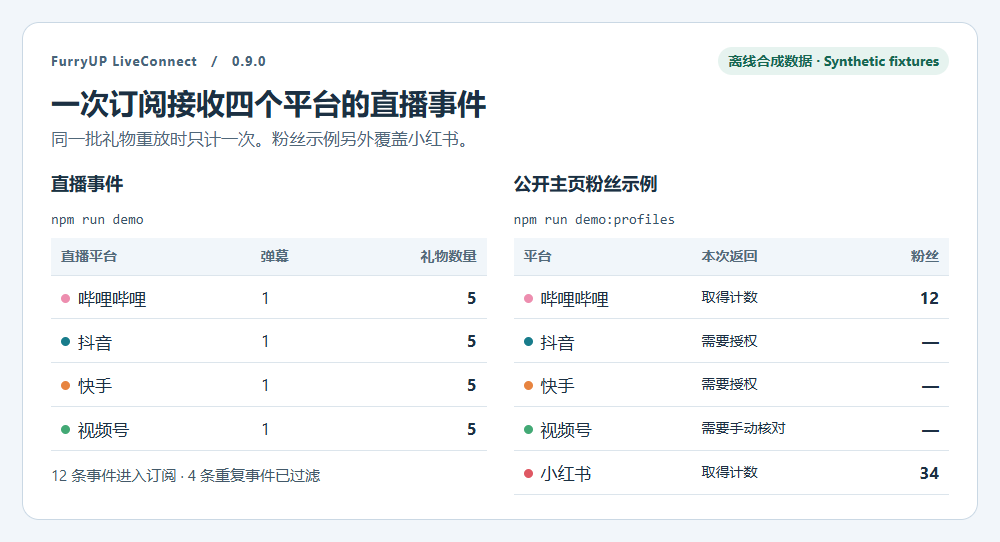
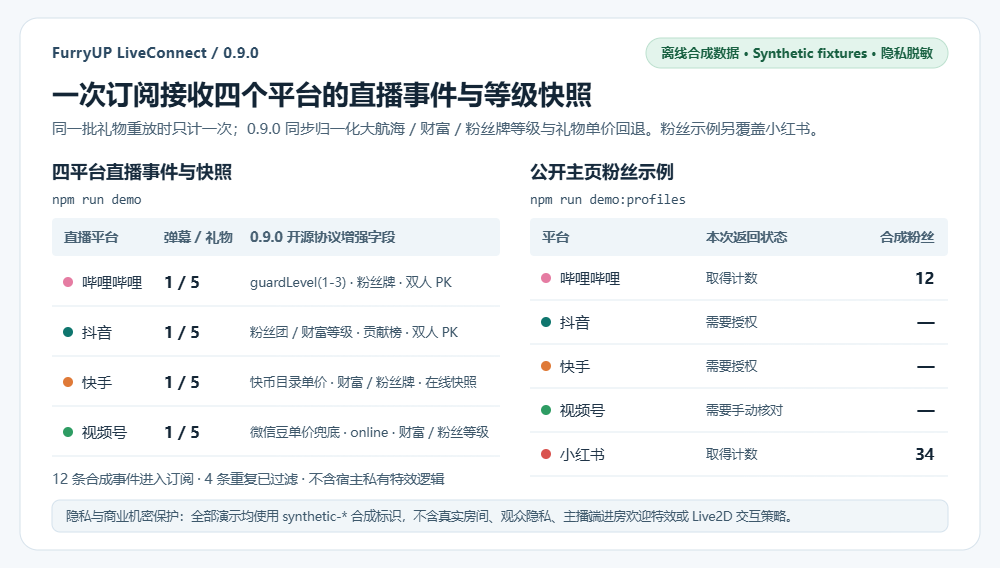
docs: update 0.9.0 architecture diagram and synthetic screenshots with privacy/commercial boundaries
- Refresh docs/images/architecture.svg with 0.9.0 capabilities and explicit privacy & commercial-secret boundaries
- Refresh docs/images/live-and-followers.png and docs/images/monthly-revenue.png using synthetic fixtures
- Update SHA-256 verification hashes in scripts/audit-source.cjs and sync README/API/EVENTS docs

diff --git a/README.md b/README.md
@@ -23,19 +23,19 @@
 
 ## 看一次采集结果
 
-下图将仓库离线示例的实际输出按平台排版。四个直播间共送入 12 条有效事件，另有 4 条重复事件被过滤。右栏展示公开主页示例在不同平台返回的状态。[直播示例](examples/offline-demo.cjs) · [主页示例](examples/profile-demo.cjs)
+下图将仓库离线示例的实际输出与 0.9.0 四平台协议增强字段按平台排版。四个直播间共送入 12 条有效合成事件，另有 4 条重复事件被过滤，并同步展示大航海（`guardLevel`）、财富/粉丝牌等级、礼物单价兜底与在线快照能力。右栏展示公开主页示例在不同平台返回的状态。全部演示均采用 `synthetic-*` 脱敏合成数据，不含任何真实房间或观众信息。[直播示例](examples/offline-demo.cjs) · [主页示例](examples/profile-demo.cjs)
 
-![直播事件和五平台主页离线示例，按平台列出礼物数量、重复事件和粉丝读取状态](docs/images/live-and-followers.png)
+![直播事件、0.9.0 协议增强字段与五平台主页离线示例（离线合成脱敏数据）](docs/images/live-and-followers.png)
 
-收益示例中，同一个 B站月报有完整月份，趋势接口只覆盖其中两天。查看趋势时可以直接看到缺了多少天。同一个抖音账号的人民币收益和直播音浪保留各自单位。[自然月收益示例](examples/revenue-demo.cjs)
+收益示例中，同一个 B站月报有完整月份，趋势接口只覆盖其中两天。查看趋势时可以直接看到缺了多少天。同一个抖音账号的人民币收益和直播音浪保留各自单位，仅演示开源账本归集结构，不含真实创作者流水或商业分成模型。[自然月收益示例](examples/revenue-demo.cjs)
 
-![合成月账本，展示同月不同来源、人民币与音浪单位，以及各来源覆盖天数](docs/images/monthly-revenue.png)
+![合成月账本，展示同月不同来源、人民币与音浪单位，以及各来源覆盖天数（脱敏演示）](docs/images/monthly-revenue.png)
 
-## 组件架构
+## 组件架构与隐私商业边界
 
-直播事件通过 `core` 订阅，粉丝快照通过 `profiles` 获取，收益通过 `revenue` 生成自然月账本。宿主可以只选用其中一路，按需接入自己的图表、账号和云存储。
+直播事件通过 `core` 订阅，粉丝快照通过 `profiles` 获取，收益通过 `revenue` 生成自然月账本。平台登录态与 Cookie 仅留存采集设备本机；专属进房欢迎特效、Live2D 动作规则、多源交叉核验与智能助播策略均由闭源宿主独立实现，不在本开源仓库公开。
 
-![LiveConnect 数据流：四平台直播进入事件订阅，五平台主页进入粉丝快照，四平台收益进入按自然月整理的账本](docs/images/architecture.svg)
+![LiveConnect 0.9.0 数据流与隐私商业隔离边界](docs/images/architecture.svg)
 
 [事件字段](docs/EVENTS.md) · [排错指南](docs/TROUBLESHOOTING.md) · [应用案例](docs/SHOWCASE.md) · [更新记录](CHANGELOG.md)
 
@@ -245,9 +245,7 @@ FurryUP Studio 将直播工作台、互动与 OBS 配合等工作流集中到桌
 
 **想自己开发：** 使用 LiveConnect 接入你的工具箱，欢迎反馈和贡献协议修复。**想直接开播使用：** [FurryUP Studio](https://github.com/frostynight-furry/furryup-studio-releases) 提供完整主播端产品，[FurryUP 桌宠](https://github.com/frostynight-furry/furryup-desktop-pet-releases) 提供桌面陪伴体验。开源底层能力与 FurryUP 产品持续共同迭代。
 
-下面展示 FurryUP Studio 官方下载仓库已公开的工作台界面，使用示例消息；它展示完整产品的应用方式，不是 LiveConnect 附带的界面。图片和品牌不纳入本仓库源码的 MIT 许可。
-
-[![FurryUP Studio 四平台工作台，使用示例消息](https://raw.githubusercontent.com/frostynight-furry/furryup-studio-releases/main/assets/screenshots/live-workbench.png)](https://github.com/frostynight-furry/furryup-studio-releases#界面预览)
+为保护用户隐私与产品商业机密，本仓库所有文档截图、测试 fixture 与架构图均采用离线合成数据（`synthetic-*`），不包含任何真实账号、观众记录或闭源宿主界面截图。完整主播端产品说明见 [FurryUP Studio 发行页](https://github.com/frostynight-furry/furryup-studio-releases)；产品品牌与闭源能力不纳入本仓库源码的 MIT 许可。
 
 做出了自己的工具？欢迎按[案例提交说明](docs/SHOWCASE.md)提供公开项目链接。我们会区分官方产品和独立社区项目，不将未接入的项目标记为用户案例。
 

diff --git a/docs/API.md b/docs/API.md
@@ -126,19 +126,19 @@ const recent = live.history({ eventTypes: ['comment'] });
 
 快手 Java 采集器在官方本场礼物目录可用时提供单件价格，币种为 `kuaibi`（快币）；该价格与 `gift_count` 分开，不乘以连送数量。价格字段缺失代表未知，不代表免费或零价格。目录在连接前预载并定期刷新，过期或平台限制时不推测价格，其他事件继续采集。
 
-价格在核心中规范为十进制**字符串**，保留平台语义。B站普通礼物的 `bilibili_coin` 及 `gift_coin_type`、抖音的 `diamond` 取已知原始单位价格；视频号 `wechat_bean` 来自奖励消息的 `reward_amount_in_wecoin`，保留交易金额语义，不能统一再乘一次数量。B站醒目留言 `cny` 是该消息的原始金额。缺失价格、币种和图片都不会凭空补齐，也不换算跨平台收入。
+价格在核心中规范为十进制**字符串**，保留平台语义。B站普通礼物的 `bilibili_coin` 及 `gift_coin_type`、抖音的 `diamond` 取已知原始单位价格；视频号 `wechat_bean` 优先来自奖励消息的 `reward_amount_in_wecoin`，缺失时按 `reward_gift.price * reward_product_count` 兜底计算，均保留本条交易总金额语义，不能统一再乘一次数量。B站醒目留言 `cny` 是该消息的原始金额。缺失价格、币种和图片都不会凭空补齐，也不换算跨平台收入。
 
 快手、抖音礼物保留 SDK 已计算的增量，不把每条连击的显示总数再次累计。视频号只把已确认的奖励消息计作礼物，忽略连击总数通知的重复计数。
 
 ### 观众与 PK 快照
 
-`viewer_snapshot` 包含 `source`、`presenceEvidence`、`complete`、可选 `revision` 和 `viewers`。每个观众可有 `userId`、`userName`、`userLevel`、`wealthLevel`、`online`、`highWealth`，以及合法的 `avatarUrl` / `avatarId` 和有来源依据的 `rank`（`1–500`）。缺失头像或名次不会补造，数组下标不是平台排名。
+`viewer_snapshot` 包含 `source`、`presenceEvidence`、`complete`、可选 `revision` 和 `viewers`。每个观众可有 `userId`、`userName`、`userLevel`、`wealthLevel`、`guardLevel`（`1 | 2 | 3`）、`online`、`highWealth`，以及合法的 `avatarUrl` / `avatarId` 和有来源依据的 `rank`（`1–500`）。缺失头像或名次不会补造，数组下标不是平台排名。
 
 | 来源 | `source` / `presenceEvidence` | 实际范围 |
 | --- | --- | --- |
 | 快手 socket `340` | `kuaishou-live-watching-list` / `online-list` | 平台可见观众片段；保留明确的 `offline` 反向状态及 `tuhao` 标记，排除隐藏或占位身份 |
 | 抖音 `ranksList` | `douyin-contributor-rank` / `unknown` | 部分贡献榜，保留明确名次；不证明上榜用户此刻仍在线，不包含所有座位 |
-| 视频号后台 `online_member` | `wechat-online-member` / `online-list` | 后台本次返回的 `liveContacts`；只在当前房间已由消息确认后接收最新请求的名单 |
+| 视频号后台 `online_member` | `wechat-online-member` / `online-list` | 后台本次返回的 `liveContacts`（含 `online: true`、`badge_type=2` 财富等级与 `badge_type=4` 粉丝团等级）；只在当前房间已由消息确认后接收最新请求的名单 |
 
 上述来源均为 `complete=false`，没有全量分页完成保证。视频号条目可能只有显示昵称和头像，没有可靠 `userId`；这种条目可供本次名单展示，不能按昵称连接到弹幕身份。名单不会产生 `enter` / `follow` / 离场事件，也不会自动填充弹幕的身份头像缓存。缺失、消失或过期的条目不能证明完整离场，更不能由此计算所有人的精确停留时间。
 

diff --git a/README.en.md b/README.en.md
@@ -18,19 +18,19 @@ The source on this branch is **0.9.0**. The three Java collectors reuse Ordinary
 
 ## See the results
 
-These screenshots arrange the bundled demos' actual output by platform. Four synthetic rooms produce 12 accepted events with four duplicate deliveries filtered. The public profile demo also returns explicit authorization or manual states. [Event demo](examples/offline-demo.cjs) · [Profile demo](examples/profile-demo.cjs)
+These screenshots arrange the bundled demos' output alongside the 0.9.0 protocol enhancements by platform. Four synthetic rooms produce 12 accepted events with four duplicate deliveries filtered, while highlighting normalized guard/wealth/fan badge levels, gift unit-price fallback and online viewer snapshots. The public profile demo returns explicit authorization or manual states. All visuals use `synthetic-*` fixtures with zero real accounts or audience records. [Event demo](examples/offline-demo.cjs) · [Profile demo](examples/profile-demo.cjs)
 
-![Offline demo output showing four live event streams and five platform profile results with their availability](docs/images/live-and-followers.png)
+![Offline demo output showing four live event streams, 0.9.0 badge/snapshot capabilities and five platform profile results](docs/images/live-and-followers.png)
 
-In the revenue fixture, Bilibili's full monthly report and its two observed trend days have different coverage. Douyin's CNY values and its native live engagement unit have separate series. [Revenue demo](examples/revenue-demo.cjs)
+In the revenue fixture, Bilibili's full monthly report and its two observed trend days have different coverage. Douyin's CNY values and its native live engagement unit have separate series, illustrating the open-source ledger structure without real creator statements or proprietary revenue rules. [Revenue demo](examples/revenue-demo.cjs)
 
 ![Synthetic September ledger showing full or partial calendar-month coverage and CNY or native units for each source](docs/images/monthly-revenue.png)
 
-## Architecture
+## Architecture and privacy/commercial boundary
 
-The three Java platforms and the Channels Electron collector feed the `core` event subscription. The `profiles` module verifies account identity and returns follower snapshots. The `revenue` module normalizes period records into a source-aware ledger. Host applications own their charts, accounts and cloud storage.
+The three Java platforms and the Channels Electron collector feed the `core` event subscription. The `profiles` module verifies account identity and returns follower snapshots. The `revenue` module normalizes period records into a source-aware ledger. Login sessions remain on the local device; proprietary welcome effects, Live2D interaction rules, cross-verified audience synthesis and PK coaching belong to closed-source host applications.
 
-![Platform adapters feed event subscriptions, follower snapshots and source-aware revenue history for the host application](docs/images/architecture.svg)
+![Platform adapters feed event subscriptions, follower snapshots and source-aware revenue history with explicit privacy and commercial boundaries](docs/images/architecture.svg)
 
 [Event fields](docs/EVENTS.en.md) · [Troubleshooting](docs/TROUBLESHOOTING.md) · [Showcase](docs/SHOWCASE.md) · [Changelog](CHANGELOG.en.md)
 

diff --git a/docs/EVENTS.en.md b/docs/EVENTS.en.md
@@ -2,7 +2,7 @@
 
 [中文](EVENTS.md) · [Testing and replay](TESTING.en.md) · [JSON Schema](../schemas/live-event.v1.schema.json)
 
-Applies to LiveConnect 0.7.3; event `schemaVersion` remains **1**. Profile/follower snapshots are a separate API, not livestream interactions. Live platforms are `bilibili`, `douyin`, `kuaishou` and `wechat`; there is no Xiaohongshu live collector.
+Applies to LiveConnect 0.9.0; event `schemaVersion` remains **1**. Profile/follower snapshots are a separate API, not livestream interactions. Live platforms are `bilibili`, `douyin`, `kuaishou` and `wechat`; there is no Xiaohongshu live collector.
 
 Optional `user_badges` contains at most 16 `{kind, label, level?}` entries. Kinds are `role`, `membership`, `fans`, `wealth`, `level` and `title`; labels are at most 64 characters and levels are integers 1–1000. Missing values remain absent; legacy `badge_name` / `badge_level` stay compatible. Badges belong only to the current sender/message: never cache them across users or rooms or treat them as permissions or proof of current membership. Only explicit fields and verified resource identifiers are recognized; platform images are not redistributed and unknown image meanings are not inferred.
 

diff --git a/docs/EVENTS.md b/docs/EVENTS.md
@@ -2,7 +2,7 @@
 
 [English](EVENTS.en.md) · [测试与回放](TESTING.md) · [JSON Schema](../schemas/live-event.v1.schema.json)
 
-适用：LiveConnect 0.7.3；事件 `schemaVersion` 仍为 **1**。主页/粉丝数快照属于独立模块，不是直播互动事件。四平台为 `bilibili`、`douyin`、`kuaishou`、`wechat`；小红书不包含直播采集。
+适用：LiveConnect 0.9.0；事件 `schemaVersion` 仍为 **1**。主页/粉丝数快照属于独立模块，不是直播互动事件。四平台为 `bilibili`、`douyin`、`kuaishou`、`wechat`；小红书不包含直播采集。
 
 可选 `user_badges` 最多 16 项，每项为 `{kind, label, level?}`；`kind` 为 `role`、`membership`、`fans`、`wealth`、`level` 或 `title`，标签最多 64 字符，等级为 1–1000 的整数。缺失保持缺失，旧 `badge_name` / `badge_level` 继续兼容。头衔只属于当前消息发送者，不可跨用户／房间缓存，不作为权限或当前成员身份依据。仅识别明确字段和已核对的资源标识，不分发平台图片或猜测未知图片含义。
 
